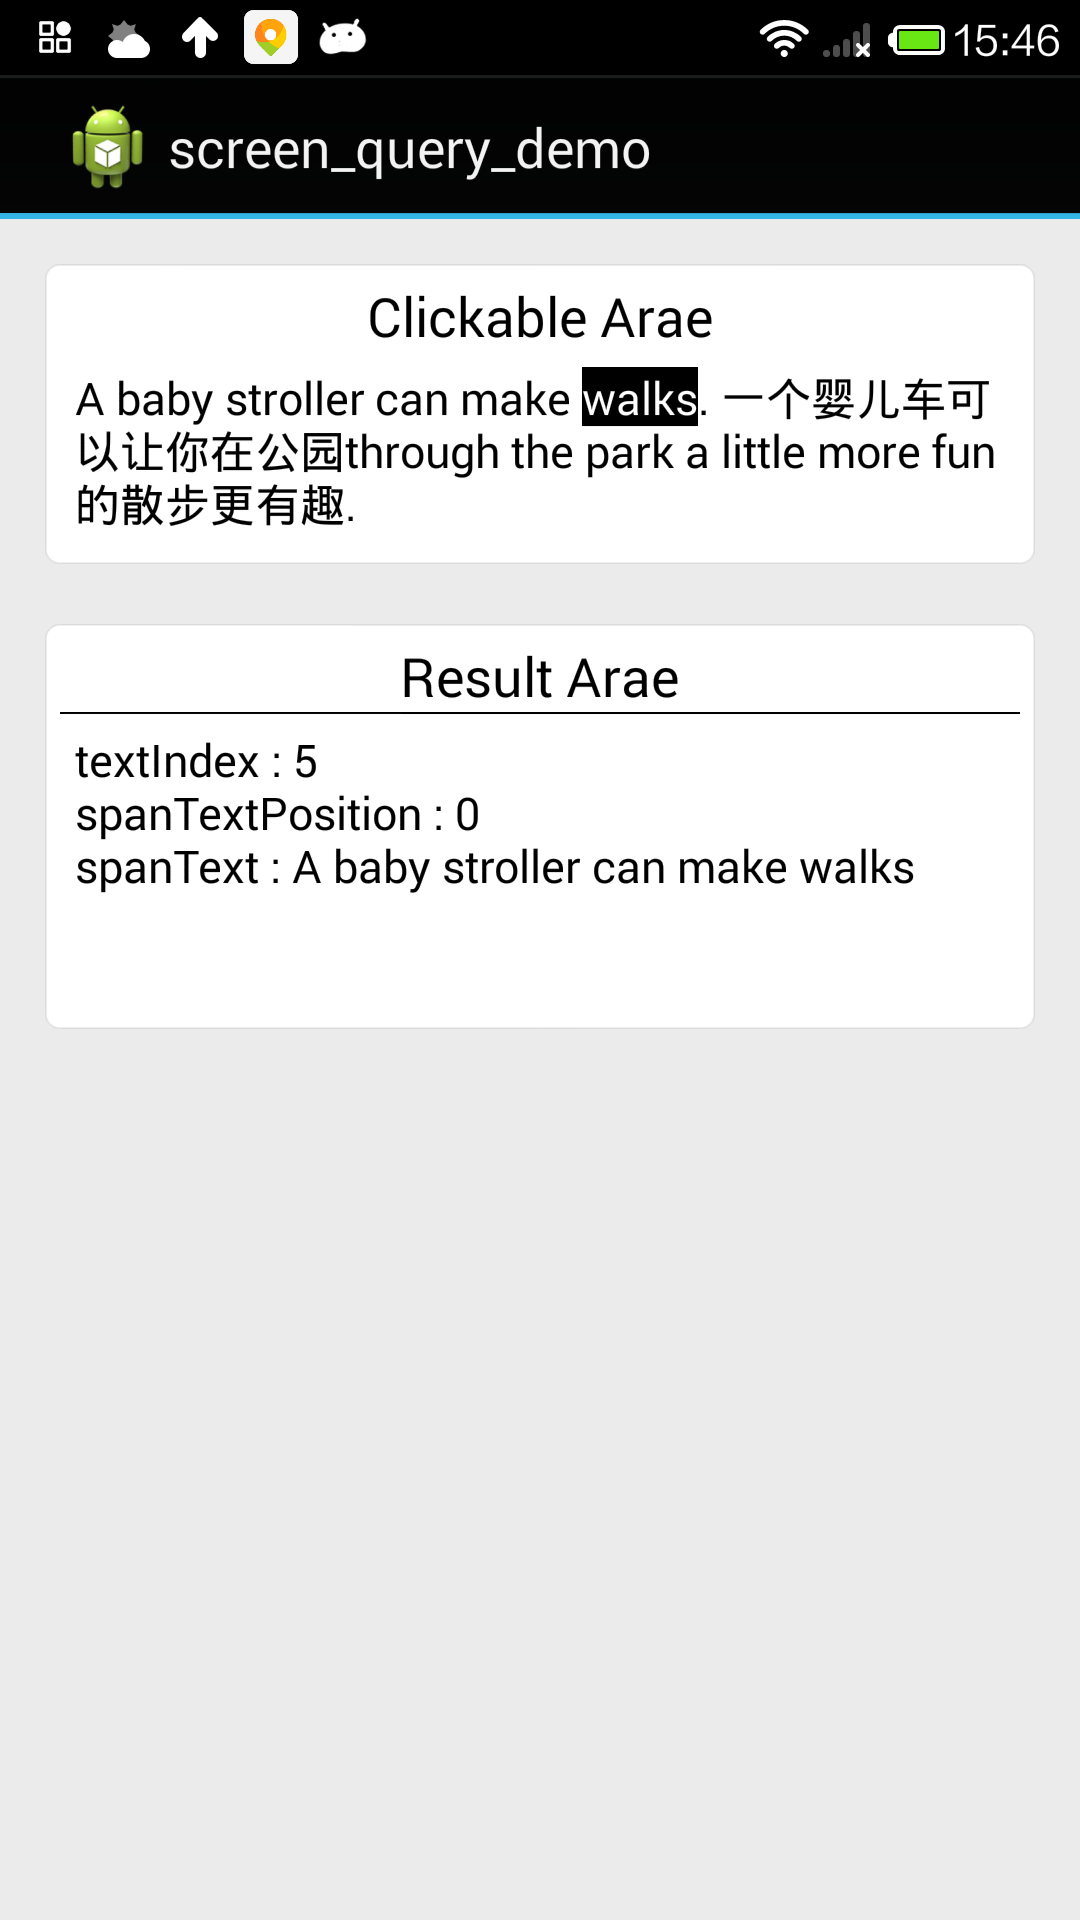
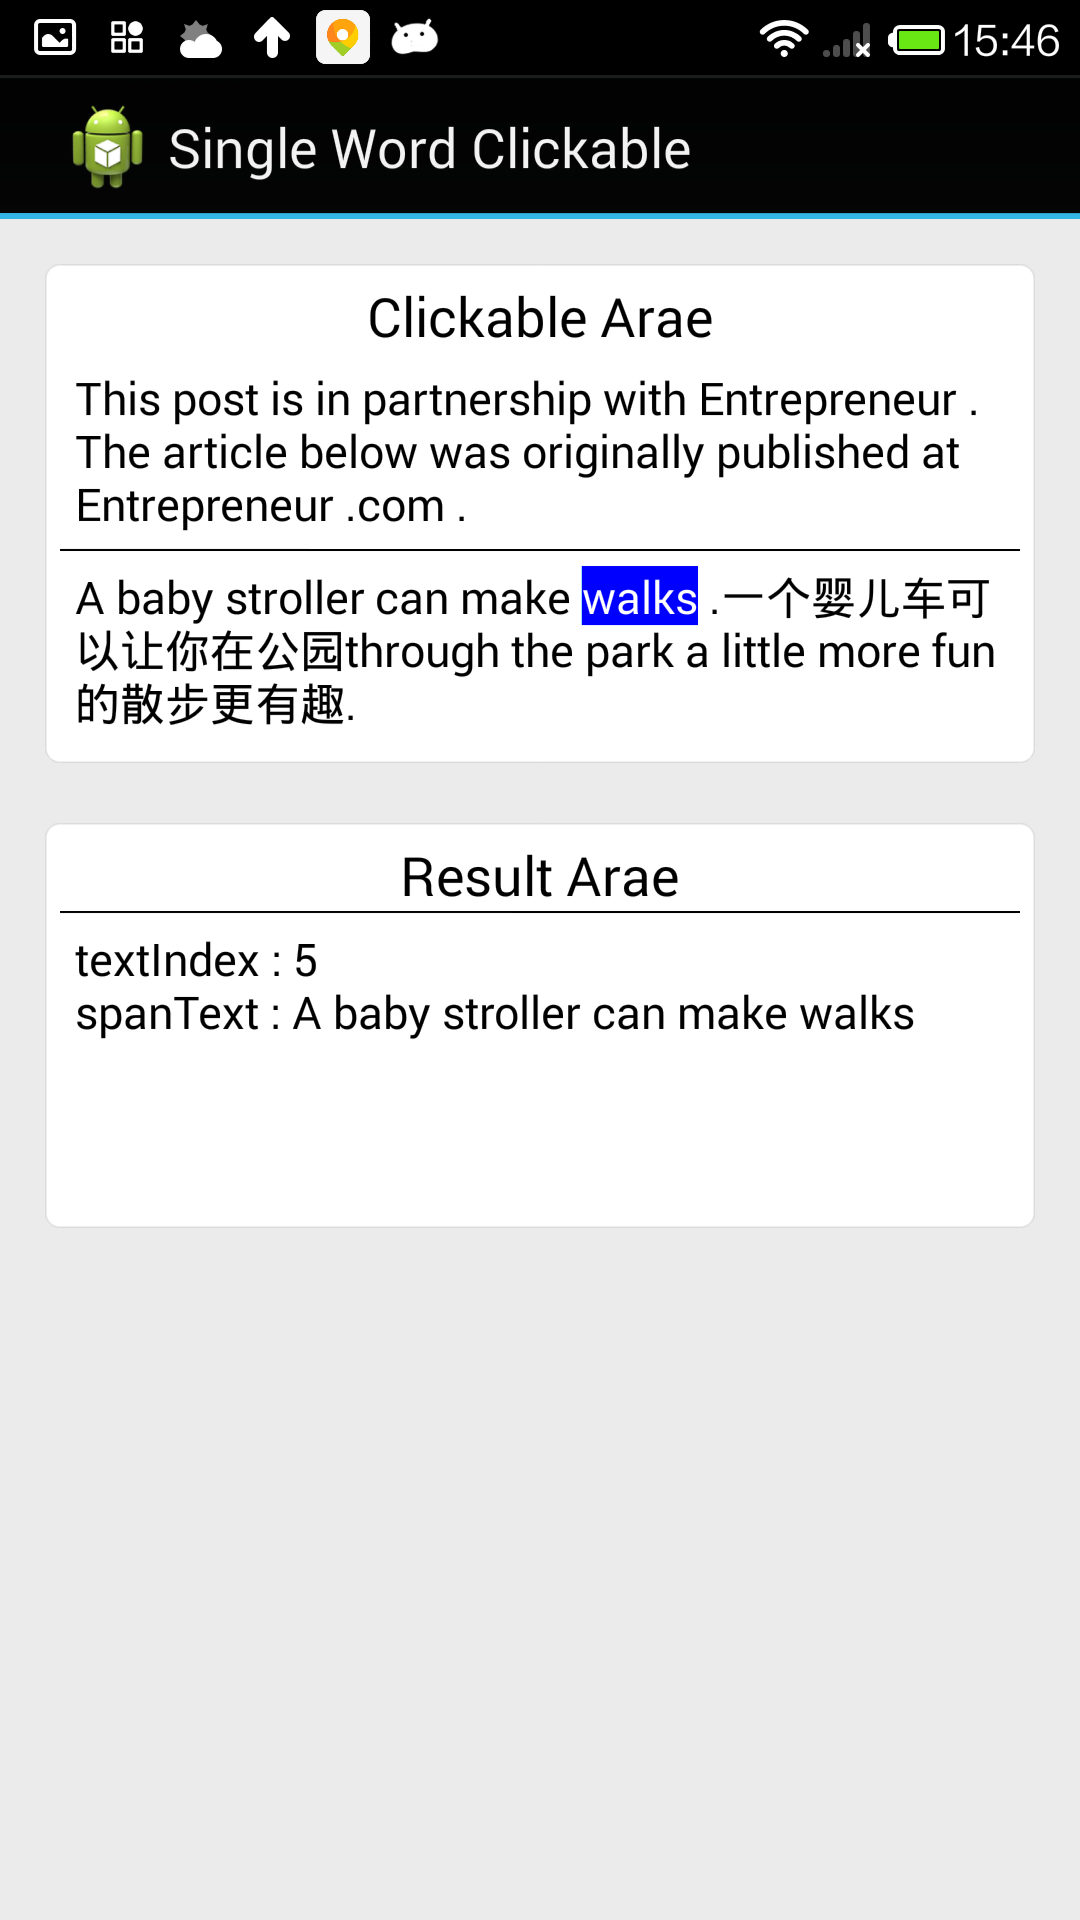
update REAMME

diff --git a/README.md b/README.md
@@ -1,2 +1,85 @@
-screen query
-============
+android screen query
+===================
+
+android screen query with Clickablespan and Spanwatcher. when you click one word on View, you will get the word index and the whole sencence. after that,you can query the word or do anothing that you want.
+
+####1、Single Word
+
+![ScreenShot](https://raw.githubusercontent.com/secret8888/android_screen_query/master/screenshots/single.png)
+
+In this mode, you can use the method below:
+``` xml
+SingleClickableClient.getInstance().setTipSpan(this, titleView,
+				getString(R.string.title_sample), Color.BLUE, Color.WHITE,
+				Color.WHITE, Color.BLACK);
+
+description:
+        /**
+	 * Format sentences and replace some words by "#" with the regular
+	 * expressions "[^a-zA-Z\\-\\s']". Traverse the format sentences and if the
+	 * char is "#", show the original, or make the word clickable with
+	 * "ClickableSpan"
+	 * 
+	 * @param listener
+	 *            callback method
+	 * @param spanView
+	 *            the view show text
+	 * @param text
+	 *            the text that need to be clickable
+	 * @param selectBgColor
+	 *            the background color of area selected
+	 * @param unSelectBgColor
+	 *            the background color of area unselected
+	 * @param selectTextColor
+	 *            the text color of area selected
+	 * @param unSelectTextColor
+	 *            the text color of area unselected
+	 */
+	public void setTipSpan(OnSpanbableClickListener listener,
+			TextView spanView, String text, int selectBgColor,
+			int unSelectBgColor, int selectTextColor, int unSelectTextColor)
+
+```
+The result just like above.
+
+==============================================================================================================
+
+####2、Multi Words
+
+![ScreenShot](https://raw.githubusercontent.com/secret8888/android_screen_query/master/screenshots/multi.png)
+
+In this mode, you can use the method below:
+``` xml
+MultiClickableClient.setTipSpan(tipListener, tipView,
+				getString(R.string.tip_sample), 0, 0,
+				Color.BLACK, Color.WHITE, Color.WHITE);
+
+description:
+        /**
+	 * Format sentences and replace some words by "#" with the regular
+	 * expressions "[^a-zA-Z\\-\\s']". Traverse the format sentences and if the
+	 * char is "#", show the original, or make the word clickable with
+	 * "ClickableSpan"
+	 * 
+	 * @param spanbableClickListener
+	 * @param spanView
+	 * @param text
+	 * @param selectStart
+	 *            first position of area selected
+	 * @param selectEnd
+	 *            last position of area selected
+	 * @param selectBgColor
+	 * @param selectTextColor
+	 * @param defualtBgColor
+	 *            background color of text
+	 */
+	public static void setTipSpan(
+			OnSpanbableClickListener spanbableClickListener, TextView spanView,
+			String text, int selectStart, int selectEnd, int selectBgColor,
+			int selectTextColor, int defualtBgColor)
+
+```
+The result just like above.
+
+
+
